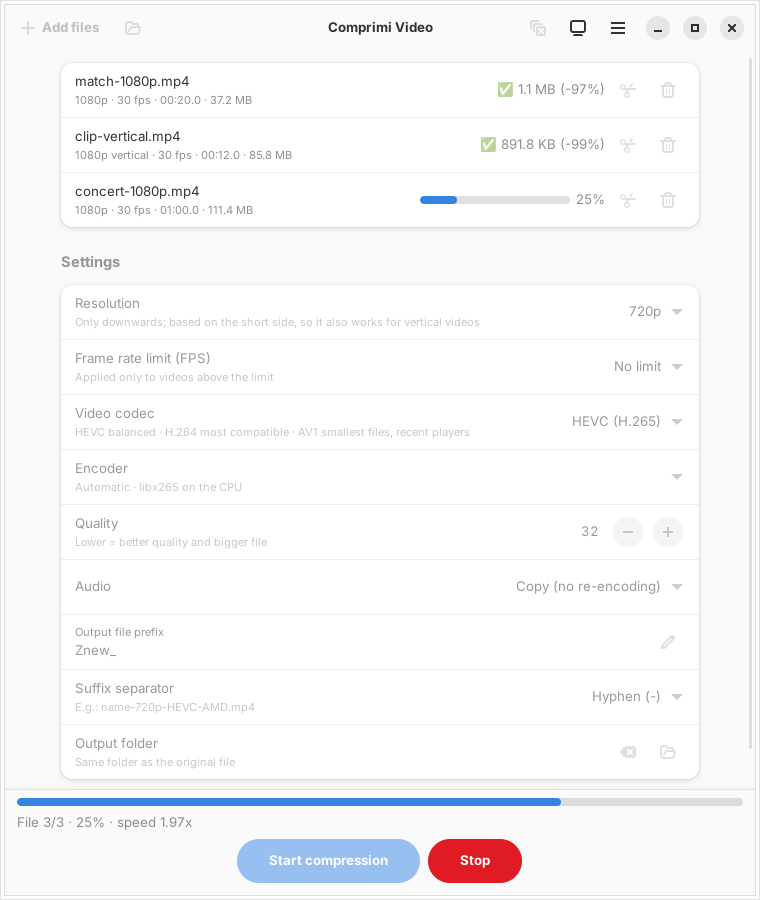
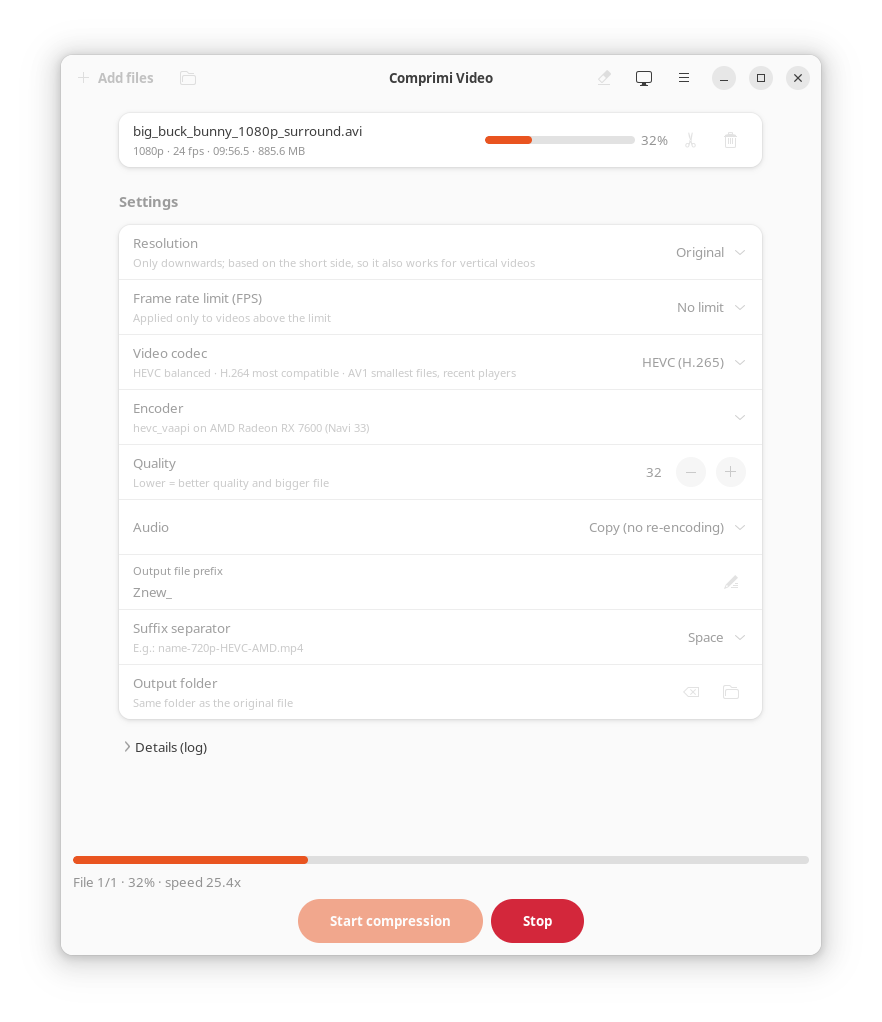
Taglio: pulsante «Fatto» sempre visibile; screenshot dal PC con la AMD
Il pulsante era in fondo all'area scorrevole e con la finestra alla misura
predefinita restava tagliato a metà: ora sta in una barra in basso.

Claude-Session: https://claude.ai/code/session_01T2aQqRMSbXM36mvdjJ65xe

diff --git a/src/gui/taglio.rs b/src/gui/taglio.rs
@@ -146,7 +146,14 @@ pub fn apri(padre: &impl IsA<gtk::Widget>, voce: Rc<Voce>, al_cambio: Rc<dyn Fn(
     let fatto = gtk::Button::builder().label(t("Fatto")).halign(gtk::Align::Center).build();
     fatto.add_css_class("suggested-action");
     fatto.add_css_class("pill");
-    box_.append(&fatto);
+    // fuori dall'area scorrevole: resta visibile anche quando la finestra è bassa
+    let barra = gtk::Box::builder()
+        .halign(gtk::Align::Center)
+        .margin_top(8)
+        .margin_bottom(14)
+        .build();
+    barra.append(&fatto);
+    vista.add_bottom_bar(&barra);
 
     let durata = voce.info.durata;
     let t = Rc::new(Dialogo {
